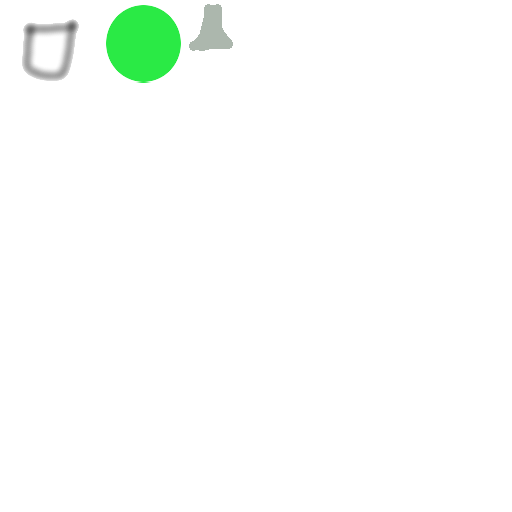
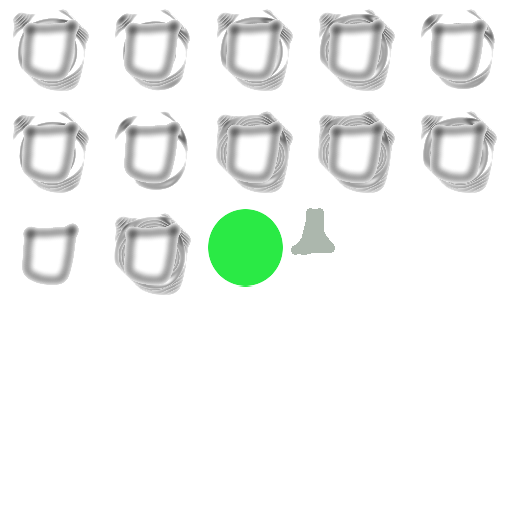
- freeze animation

diff --git a/main.py b/main.py
@@ -34,7 +34,9 @@ class SneakGame(Widget):
 
         self.points = None
         self.lives = None
+        self.person_eid = None
         self.grace_timestamp = time.time() + defs.grace_time
+        Clock.schedule_interval(self.update, 0.05)
 
     def init_game(self):
         self.setup_states()
@@ -44,8 +46,18 @@ class SneakGame(Widget):
         self.set_state()
         self.draw_some_stuff()
 
-    # def update(self, __dt):
-    #
+    def update(self, __dt):
+        currtime = time.time()
+        if self.person_eid is None:
+            return
+
+        ent = self.gameworld.entities[self.person_eid]
+        if self.gameworld.state == 'fail' or currtime < self.grace_timestamp:
+            idx = int(currtime * 20) % 10
+            Logger.debug("in freeze time idx=%s", idx)
+            ent.renderer.texture_key = "person-grace-%s" % idx
+        elif ent.renderer.texture_key != 'person':
+            ent.renderer.texture_key = 'person'
 
     def setup_states(self):
         self.gameworld.add_state(state_name='main',
@@ -83,7 +95,7 @@ class SneakGame(Widget):
         self.lives = 4
 
     def draw_person(self):
-        main_id = self.gameworld.init_entity(
+        self.person_eid = self.gameworld.init_entity(
                         *defedict({
                                 'renderer': {
                                     'texture': 'person',
@@ -107,9 +119,8 @@ class SneakGame(Widget):
                              ['position', 'rotate', 'renderer', 'steering', 'fear',
                               'cymunk_physics', 'bounds'])
                        )
-        self.camera.entity_to_focus = main_id
+        self.camera.entity_to_focus = self.person_eid
         assert self.camera.focus_entity
-        Logger.debug("main_id=%s", main_id)
 
     def draw_stones(self):
         mapw, maph = self.gamemap.map_size

diff --git a/defs.py b/defs.py
@@ -12,7 +12,7 @@ max_courage = 2.0
 
 # gameplay things
 freeze_time = 3
-grace_time = 3
+grace_time = 2
 
 # physics
 coltype_person = 1
